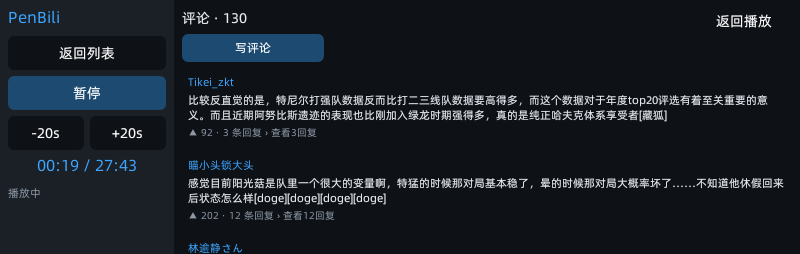
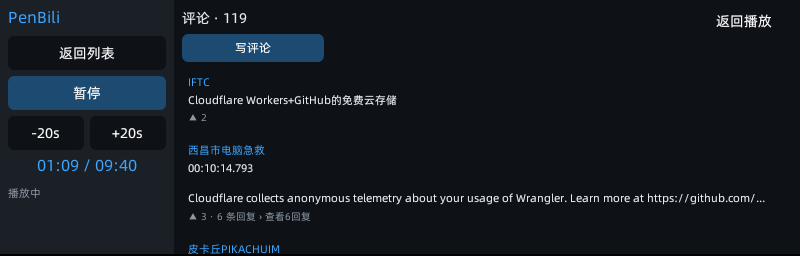
docs: 更新 2.7.1 真机截图与实测数据
- 三张截图（主页/播放中/评论区）改用 2.7.1 真机重新采集，规格 800x256
- README 移除“本次无设备未重采”的说明，改为实测结论
- 性能章节补充真机自检数据：首帧约 1.1s、音画漂移 2-36ms、
  重同步 0 次、±20s 定位约 1.5s 恢复出帧

diff --git a/README.md b/README.md
@@ -22,7 +22,7 @@
 
 ![评论区](docs/screenshots/comments.png)
 
-以上图片为 v2.7.0 时的真机截图，页面布局在本维护版本中未改动。此次无法连接测试设备，因此没有伪造或替换截图；重新连接设备后可用 `npm run deploy` 更新。
+以上均为本版本（`2.7.1`）在真机 有道 X5 上的实测截图，可自行用 `npm run deploy` 重新采集。
 
 ## 功能
 
@@ -50,6 +50,8 @@
 ## 性能诊断记录
 
 一次约 4.5 分钟的播放采样（253 个样本）中，播放稳定期未观察到超过 1 秒的停帧；超过 1 秒的停顿出现在流启动或首帧恢复阶段。该轮中视频解码约占单核 55–81%，应用进程约 5%，全机约 25%。这说明该样本中的停顿更像首帧/流启动等待，而非持续的解码饱和；不同视频和网络下结果可能不同。
+
+`2.7.1` 真机自检（有道 X5，DASH 360p / AVC）实测：首帧约 1.1 秒；稳定播放期音画漂移 2–36 ms、重同步 0 次、缓冲约 0.56 秒；±20 秒定位后约 1.5 秒恢复出帧。音频首帧会等待视频首帧后同步开播，避免起播瞬间的唇音错位。
 
 ## 构建与测试
 
